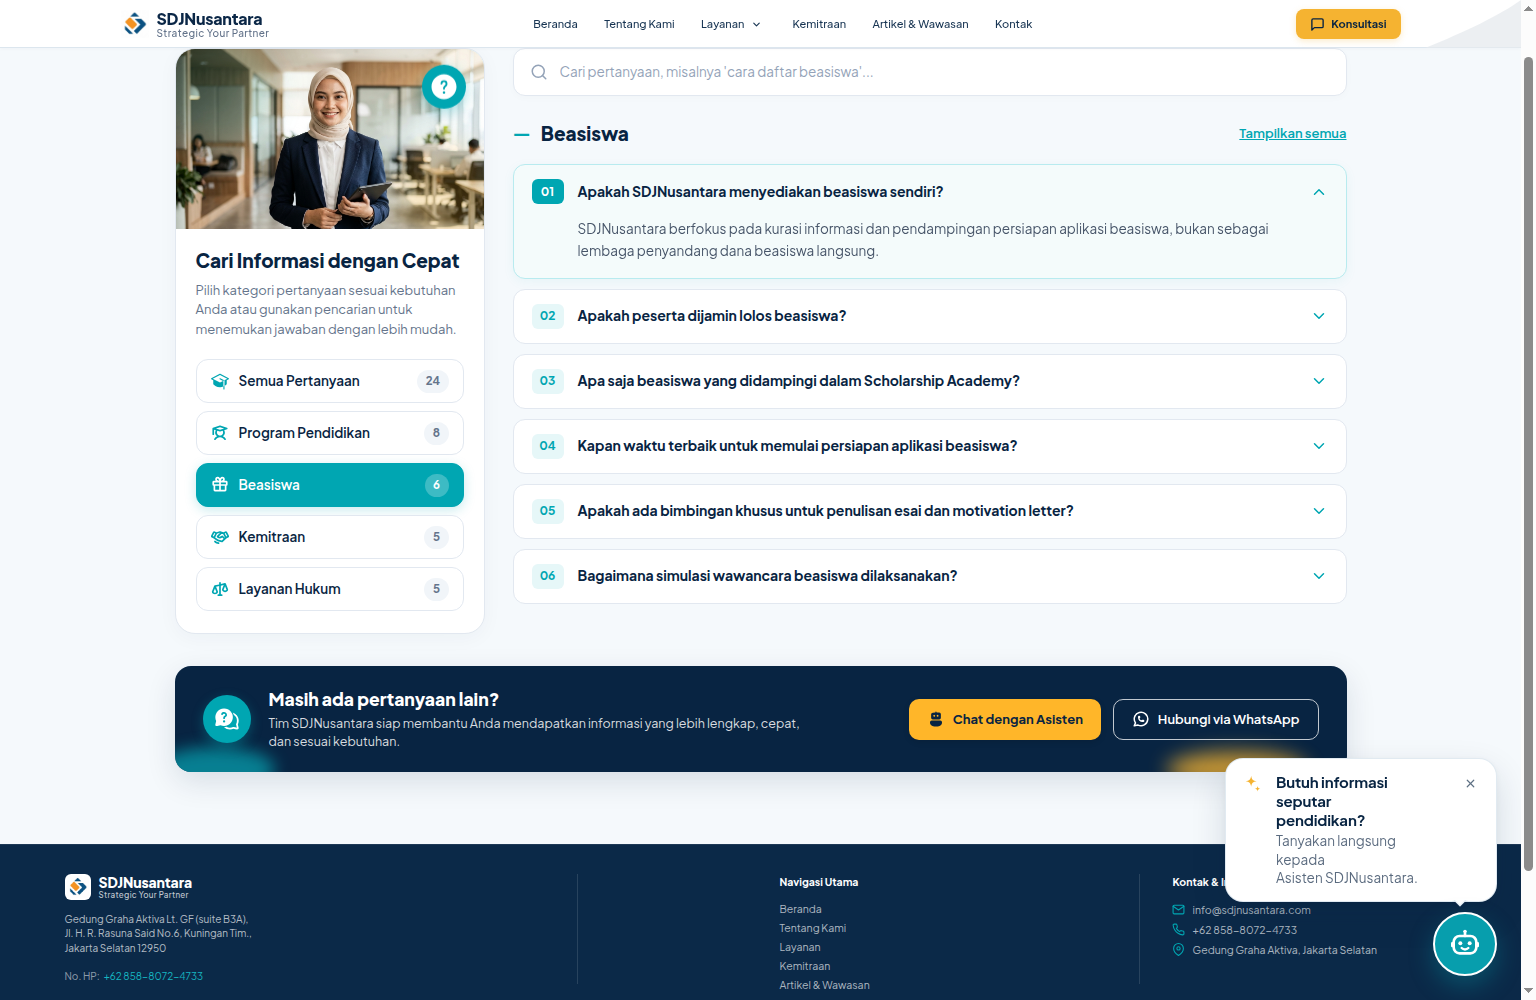
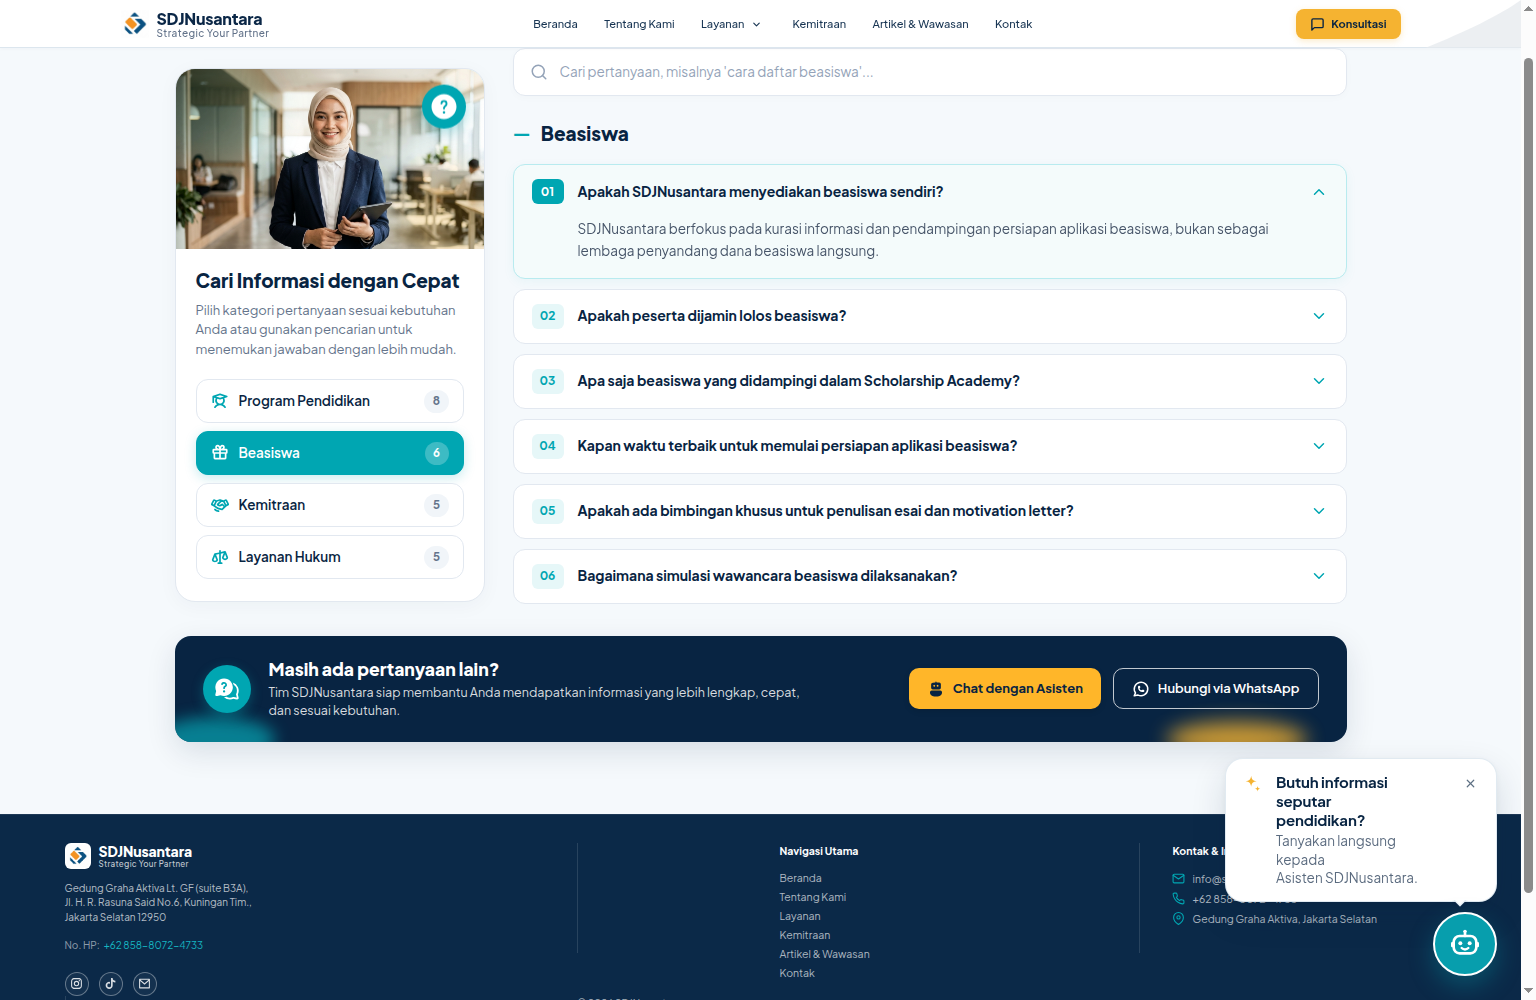
fix(faq): hapus kategori Semua Pertanyaan dan jadikan Program Pendidikan sebagai default

diff --git a/src/lib/components/sections/faq/FaqSection.svelte b/src/lib/components/sections/faq/FaqSection.svelte
@@ -5,14 +5,13 @@
 	import { chatStore } from '#lib/stores/chat.svelte';
 
 	// State
-	let selectedCategory = $state<'all' | 'program' | 'beasiswa' | 'kemitraan' | 'hukum'>('all');
+	let selectedCategory = $state<'program' | 'beasiswa' | 'kemitraan' | 'hukum'>('program');
 	let searchQuery = $state('');
-	let openItemId = $state<string | null>('faq-01'); // Default: first popular question open as in mockup
+	let openItemId = $state<string | null>('faq-01');
 
 	// Dynamic counts per category
 	let counts = $derived.by(() => {
 		const result: Record<string, number> = {
-			all: faqData.filter((i) => i.isActive).length,
 			program: faqData.filter((i) => i.isActive && i.category === 'program').length,
 			beasiswa: faqData.filter((i) => i.isActive && i.category === 'beasiswa').length,
 			kemitraan: faqData.filter((i) => i.isActive && i.category === 'kemitraan').length,
@@ -23,17 +22,7 @@
 
 	// Filtered FAQs based on category & search query
 	let filteredFaqs = $derived.by<FaqItem[]>(() => {
-		let list = faqData.filter((item) => item.isActive);
-
-		// If category is not 'all', filter by category
-		if (selectedCategory !== 'all') {
-			list = list.filter((item) => item.category === selectedCategory);
-		} else if (!searchQuery.trim()) {
-			// When 'all' and no search query: prioritize popular questions as shown in mockup
-			const populars = list.filter((item) => item.isPopular);
-			const others = list.filter((item) => !item.isPopular);
-			list = [...populars, ...others];
-		}
+		let list = faqData.filter((item) => item.isActive && item.category === selectedCategory);
 
 		// Filter by search query (question & answer)
 		const q = searchQuery.trim().toLowerCase();
@@ -52,23 +41,20 @@
 		if (searchQuery.trim()) {
 			return `Hasil Pencarian (${filteredFaqs.length})`;
 		}
-		if (selectedCategory === 'all') {
-			return 'Pertanyaan Populer';
-		}
 		const cat = FAQ_CATEGORIES.find((c) => c.id === selectedCategory);
 		return cat ? cat.name : 'Daftar Pertanyaan';
 	});
 
-	let showPopularBadge = $derived(
-		selectedCategory === 'all' && !searchQuery.trim()
-	);
-
-	function selectCategory(catId: 'all' | 'program' | 'beasiswa' | 'kemitraan' | 'hukum') {
+	function selectCategory(catId: 'program' | 'beasiswa' | 'kemitraan' | 'hukum') {
 		selectedCategory = catId;
-		// Keep open item if present in filtered list, else open first
-		const match = filteredFaqs.find((item) => item.id === openItemId);
-		if (!match && filteredFaqs.length > 0) {
-			openItemId = filteredFaqs[0].id;
+		const items = faqData.filter((item) => item.isActive && item.category === catId);
+		if (items.length > 0) {
+			const exists = items.some((i) => i.id === openItemId);
+			if (!exists) {
+				openItemId = items[0].id;
+			}
+		} else {
+			openItemId = null;
 		}
 	}
 
@@ -82,12 +68,6 @@
 
 	function clearSearch() {
 		searchQuery = '';
-	}
-
-	function resetAll() {
-		searchQuery = '';
-		selectedCategory = 'all';
-		openItemId = 'faq-01';
 	}
 </script>
 
@@ -168,22 +148,16 @@
 					{/if}
 				</div>
 
-				<!-- B. Section Heading with Teal Dash & Popular Badge -->
+				<!-- B. Section Heading with Teal Dash -->
 				<div class="faq-header-row">
 					<div class="header-title-wrap">
 						<span class="teal-dash" aria-hidden="true">—</span>
 						<h2 id="faq-section-heading" class="faq-heading-text">{headingTitle}</h2>
-						{#if showPopularBadge}
-							<div class="popular-badge" aria-label="Kategori Populer">
-								<Icon icon="tabler:star-filled" width="11" height="11" class="star-icon" />
-								<span>Populer</span>
-							</div>
-						{/if}
 					</div>
 
-					{#if searchQuery.trim() || selectedCategory !== 'all'}
-						<button type="button" class="btn-reset-filter-quick" onclick={resetAll}>
-							Tampilkan semua
+					{#if searchQuery.trim()}
+						<button type="button" class="btn-reset-filter-quick" onclick={clearSearch}>
+							Hapus pencarian
 						</button>
 					{/if}
 				</div>
@@ -198,10 +172,10 @@
 							</div>
 							<h4 class="empty-title">Pertanyaan tidak ditemukan</h4>
 							<p class="empty-desc">
-								Kami tidak menemukan pertanyaan yang cocok dengan "{searchQuery}". Coba kata kunci lain atau pilih kategori Semua Pertanyaan.
+								Kami tidak menemukan pertanyaan yang cocok dengan "{searchQuery}". Coba kata kunci lain atau hubungi asisten kami.
 							</p>
 							<div class="empty-actions">
-								<button type="button" class="btn-empty-reset" onclick={resetAll}>
+								<button type="button" class="btn-empty-reset" onclick={clearSearch}>
 									Atur Ulang Pencarian
 								</button>
 								<button type="button" class="btn-empty-chat" onclick={() => chatStore.open()}>
@@ -613,24 +587,6 @@
 		font-weight: 800;
 		color: #082442;
 		margin: 0;
-	}
-
-	/* Popular Badge with Star */
-	.popular-badge {
-		display: inline-flex;
-		align-items: center;
-		gap: 4px;
-		background: #FEF3C7;
-		border: 1px solid #FDE68A;
-		color: #92400E;
-		padding: 2.5px 8.5px;
-		border-radius: 999px;
-		font-size: 11px;
-		font-weight: 700;
-	}
-
-	:global(.star-icon) {
-		color: #D97706;
 	}
 
 	.btn-reset-filter-quick {
@@ -1080,3 +1036,4 @@
 		}
 	}
 </style>
+

diff --git a/src/lib/data/faq.ts b/src/lib/data/faq.ts
@@ -13,13 +13,12 @@ export interface FaqItem {
 }
 
 export interface FaqCategory {
-	id: 'all' | 'program' | 'beasiswa' | 'kemitraan' | 'hukum';
+	id: 'program' | 'beasiswa' | 'kemitraan' | 'hukum';
 	name: string;
 	icon: string;
 }
 
 export const FAQ_CATEGORIES: FaqCategory[] = [
-	{ id: 'all', name: 'Semua Pertanyaan', icon: 'ph:graduation-cap-fill' },
 	{ id: 'program', name: 'Program Pendidikan', icon: 'ph:student-bold' },
 	{ id: 'beasiswa', name: 'Beasiswa', icon: 'ph:gift-bold' },
 	{ id: 'kemitraan', name: 'Kemitraan', icon: 'ph:handshake-bold' },
@@ -277,3 +276,4 @@ export const faqData: FaqItem[] = [
 		order: 24
 	}
 ];
+

diff --git a/PROGRESS.md b/PROGRESS.md
@@ -963,11 +963,11 @@ Status Visual: **Identik 100% terhadap `design/kontak.png` (Skala 1.5× / 2.2522
 1. **Model Data FAQ Terpusat (`src/lib/data/faq.ts`)**:
    - Membangun struktur data resmi FAQ: `id`, `question`, `answer`, `category` (`program` | `beasiswa` | `kemitraan` | `hukum`), `isActive`, `isPopular`, dan `order`.
    - Mengintegrasikan 24 pertanyaan terstruktur yang merefleksikan 4 pilar utama layanan SDJNusantara:
-     * Semua Pertanyaan (24)
-     * Program Pendidikan (8)
+     * Program Pendidikan (8) — Kategori aktif default
      * Beasiswa (6)
      * Kemitraan (5)
      * Layanan Hukum (5)
+   - Kategori "Semua Pertanyaan" dihilangkan sesuai permintaan dan tombol "Tampilkan semua" dihapus.
    - 7 Pertanyaan Populer diprioritaskan pada tampilan awal sesuai persis dengan urutan dan redaksi pada mockup referensi (`media_1793889787792_df081cbd.jpg`).
    - Seluruh konten mematuhi etika dan kebijakan komunikasi SDJNusantara: bebas klaim kelulusan mutlak, bebas kata terlarang, serta memuat batasan hukum non-litigasi yang jelas.
 
